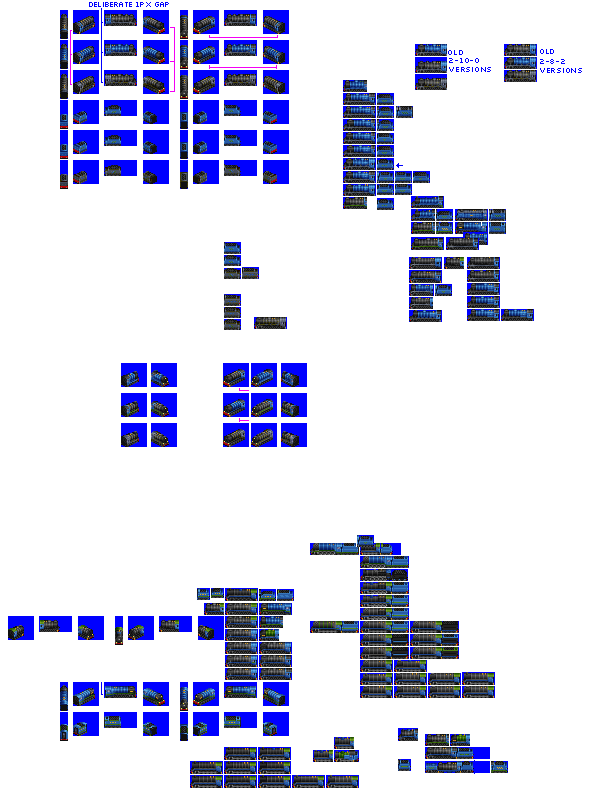
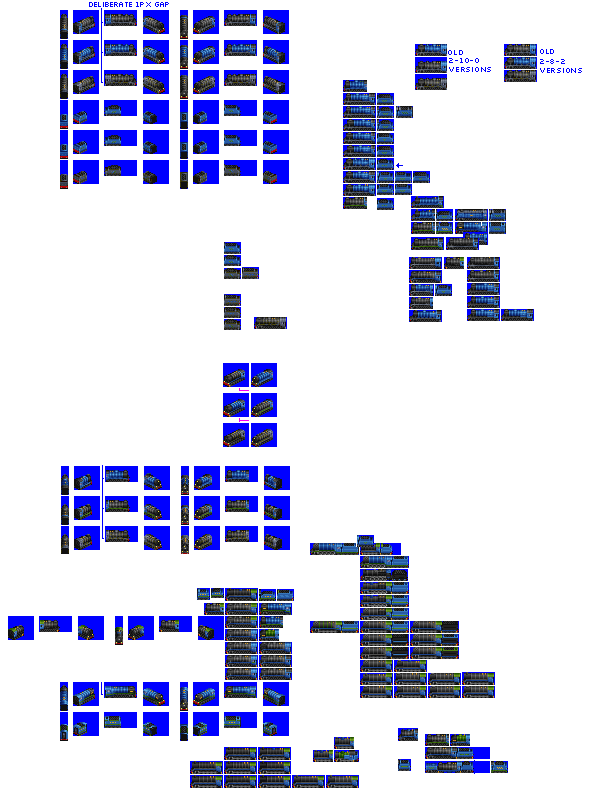
Change: sprites complete for Backbone

diff --git a/src/vehicles/pony/backbone.py b/src/vehicles/pony/backbone.py
@@ -17,7 +17,7 @@ def main(**kwargs):
         tractive_effort_coefficient=0.29,
         gen=3,
         liveries=["WORKHORSE", "STOCK_STANDARD", "FREIGHT_BLACK"],
-        sprites_complete=False,
+        sprites_complete=True,
     )
 
     model_def.add_unit_def(

diff --git a/src/rosters/pony.py b/src/rosters/pony.py
@@ -98,10 +98,10 @@ engine_module_names = [
     "girt_licker",
     "lemon",
     "esk",
-    #"backbone", #CABBAGE
+    "backbone",
     "chinook",
     "withershins",
-    #"highlander", #CABBAGE
+    "highlander",
     "grid",
     "bone",
     "lion",
